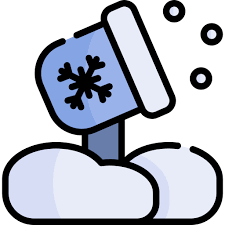
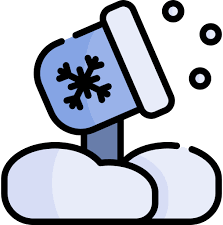
modif image canonNeige et canonNeige2

diff --git a/src/main/java/fr/iut/montreuil/stationski/Vue/VueTour.java b/src/main/java/fr/iut/montreuil/stationski/Vue/VueTour.java
@@ -37,7 +37,7 @@ public class VueTour {
             urlIm = Main.class.getResource("teleski2.png");
         }
         else if (e instanceof CanonNeige){
-            urlIm = Main.class.getResource("watertower.png");
+            urlIm = Main.class.getResource("canonNeige2.png");
         }
         else if (e instanceof Biathlon){
             urlIm = Main.class.getResource("biathlon2.png");

diff --git a/src/main/java/fr/iut/montreuil/stationski/Controleur/Controleur.java b/src/main/java/fr/iut/montreuil/stationski/Controleur/Controleur.java
@@ -180,7 +180,7 @@ public class Controleur implements Initializable {
 
         ClipboardContent cb = new ClipboardContent();
         URL urlIm;
-        urlIm = Main.class.getResource("watertower.png");
+        urlIm = Main.class.getResource("canonNeige2.png");
         Image im= new Image(String.valueOf(urlIm));
         cb.putImage(im);
         cb.putString("canonNeige");
